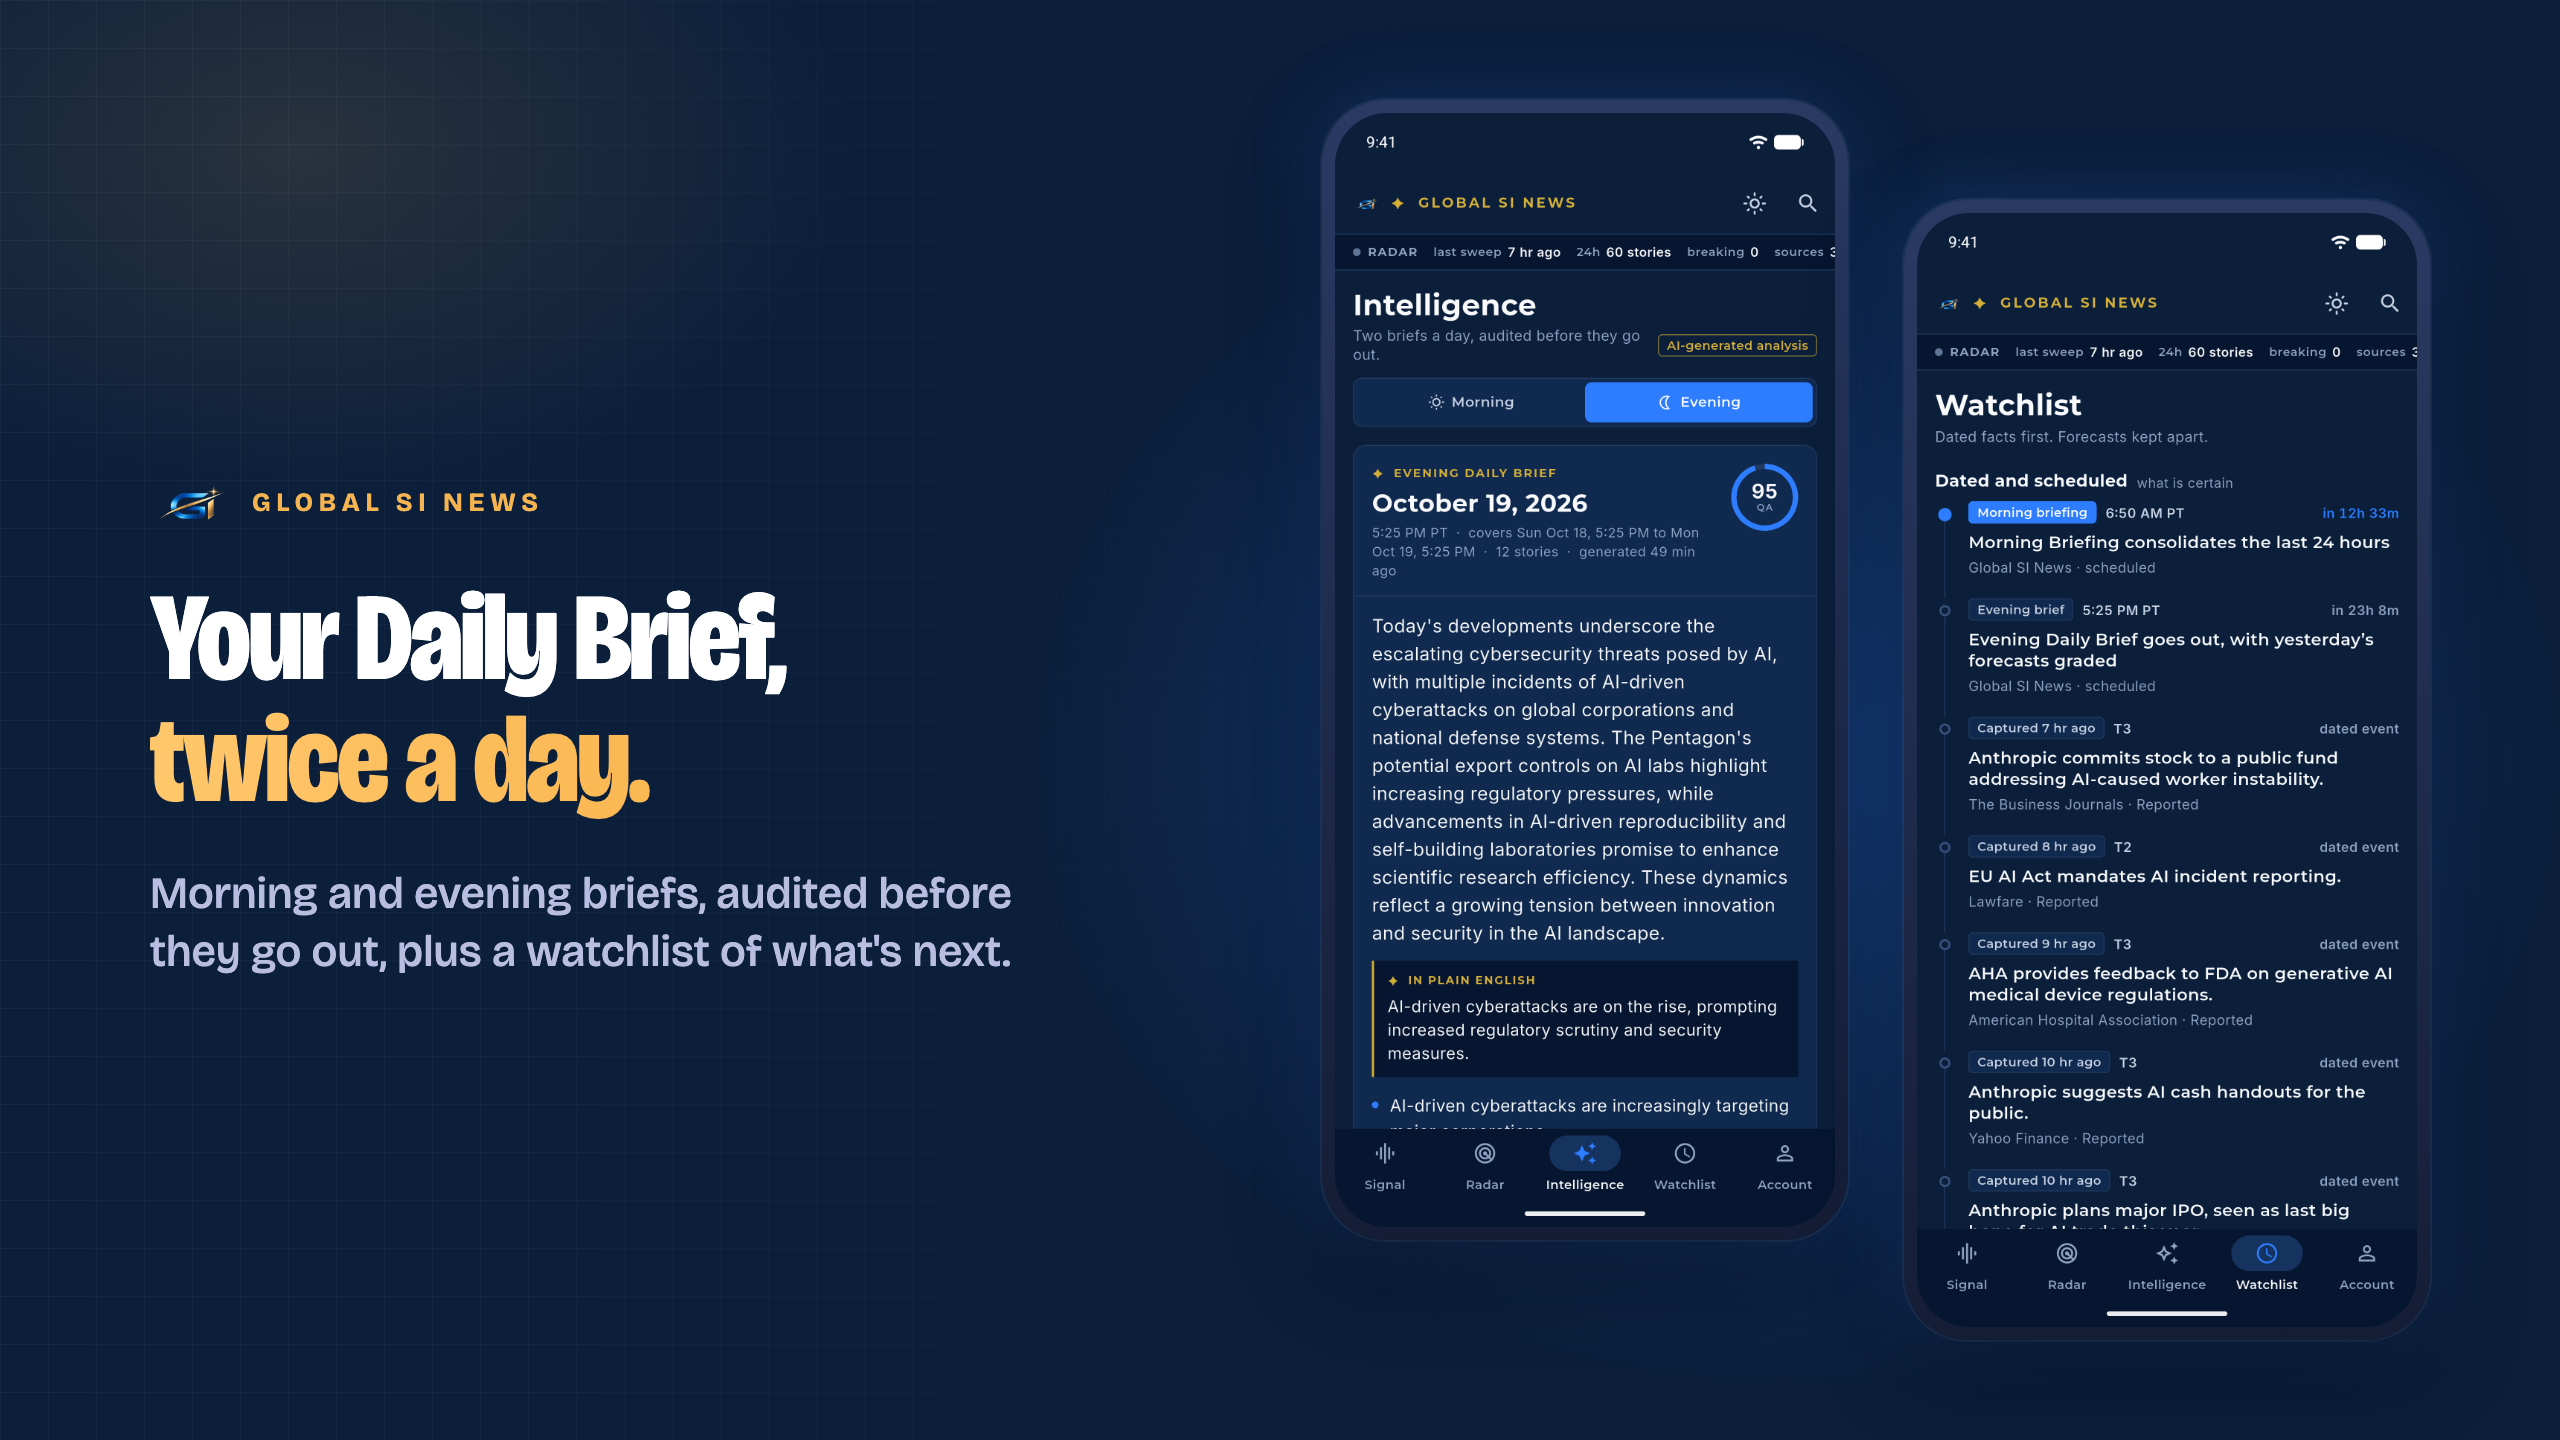
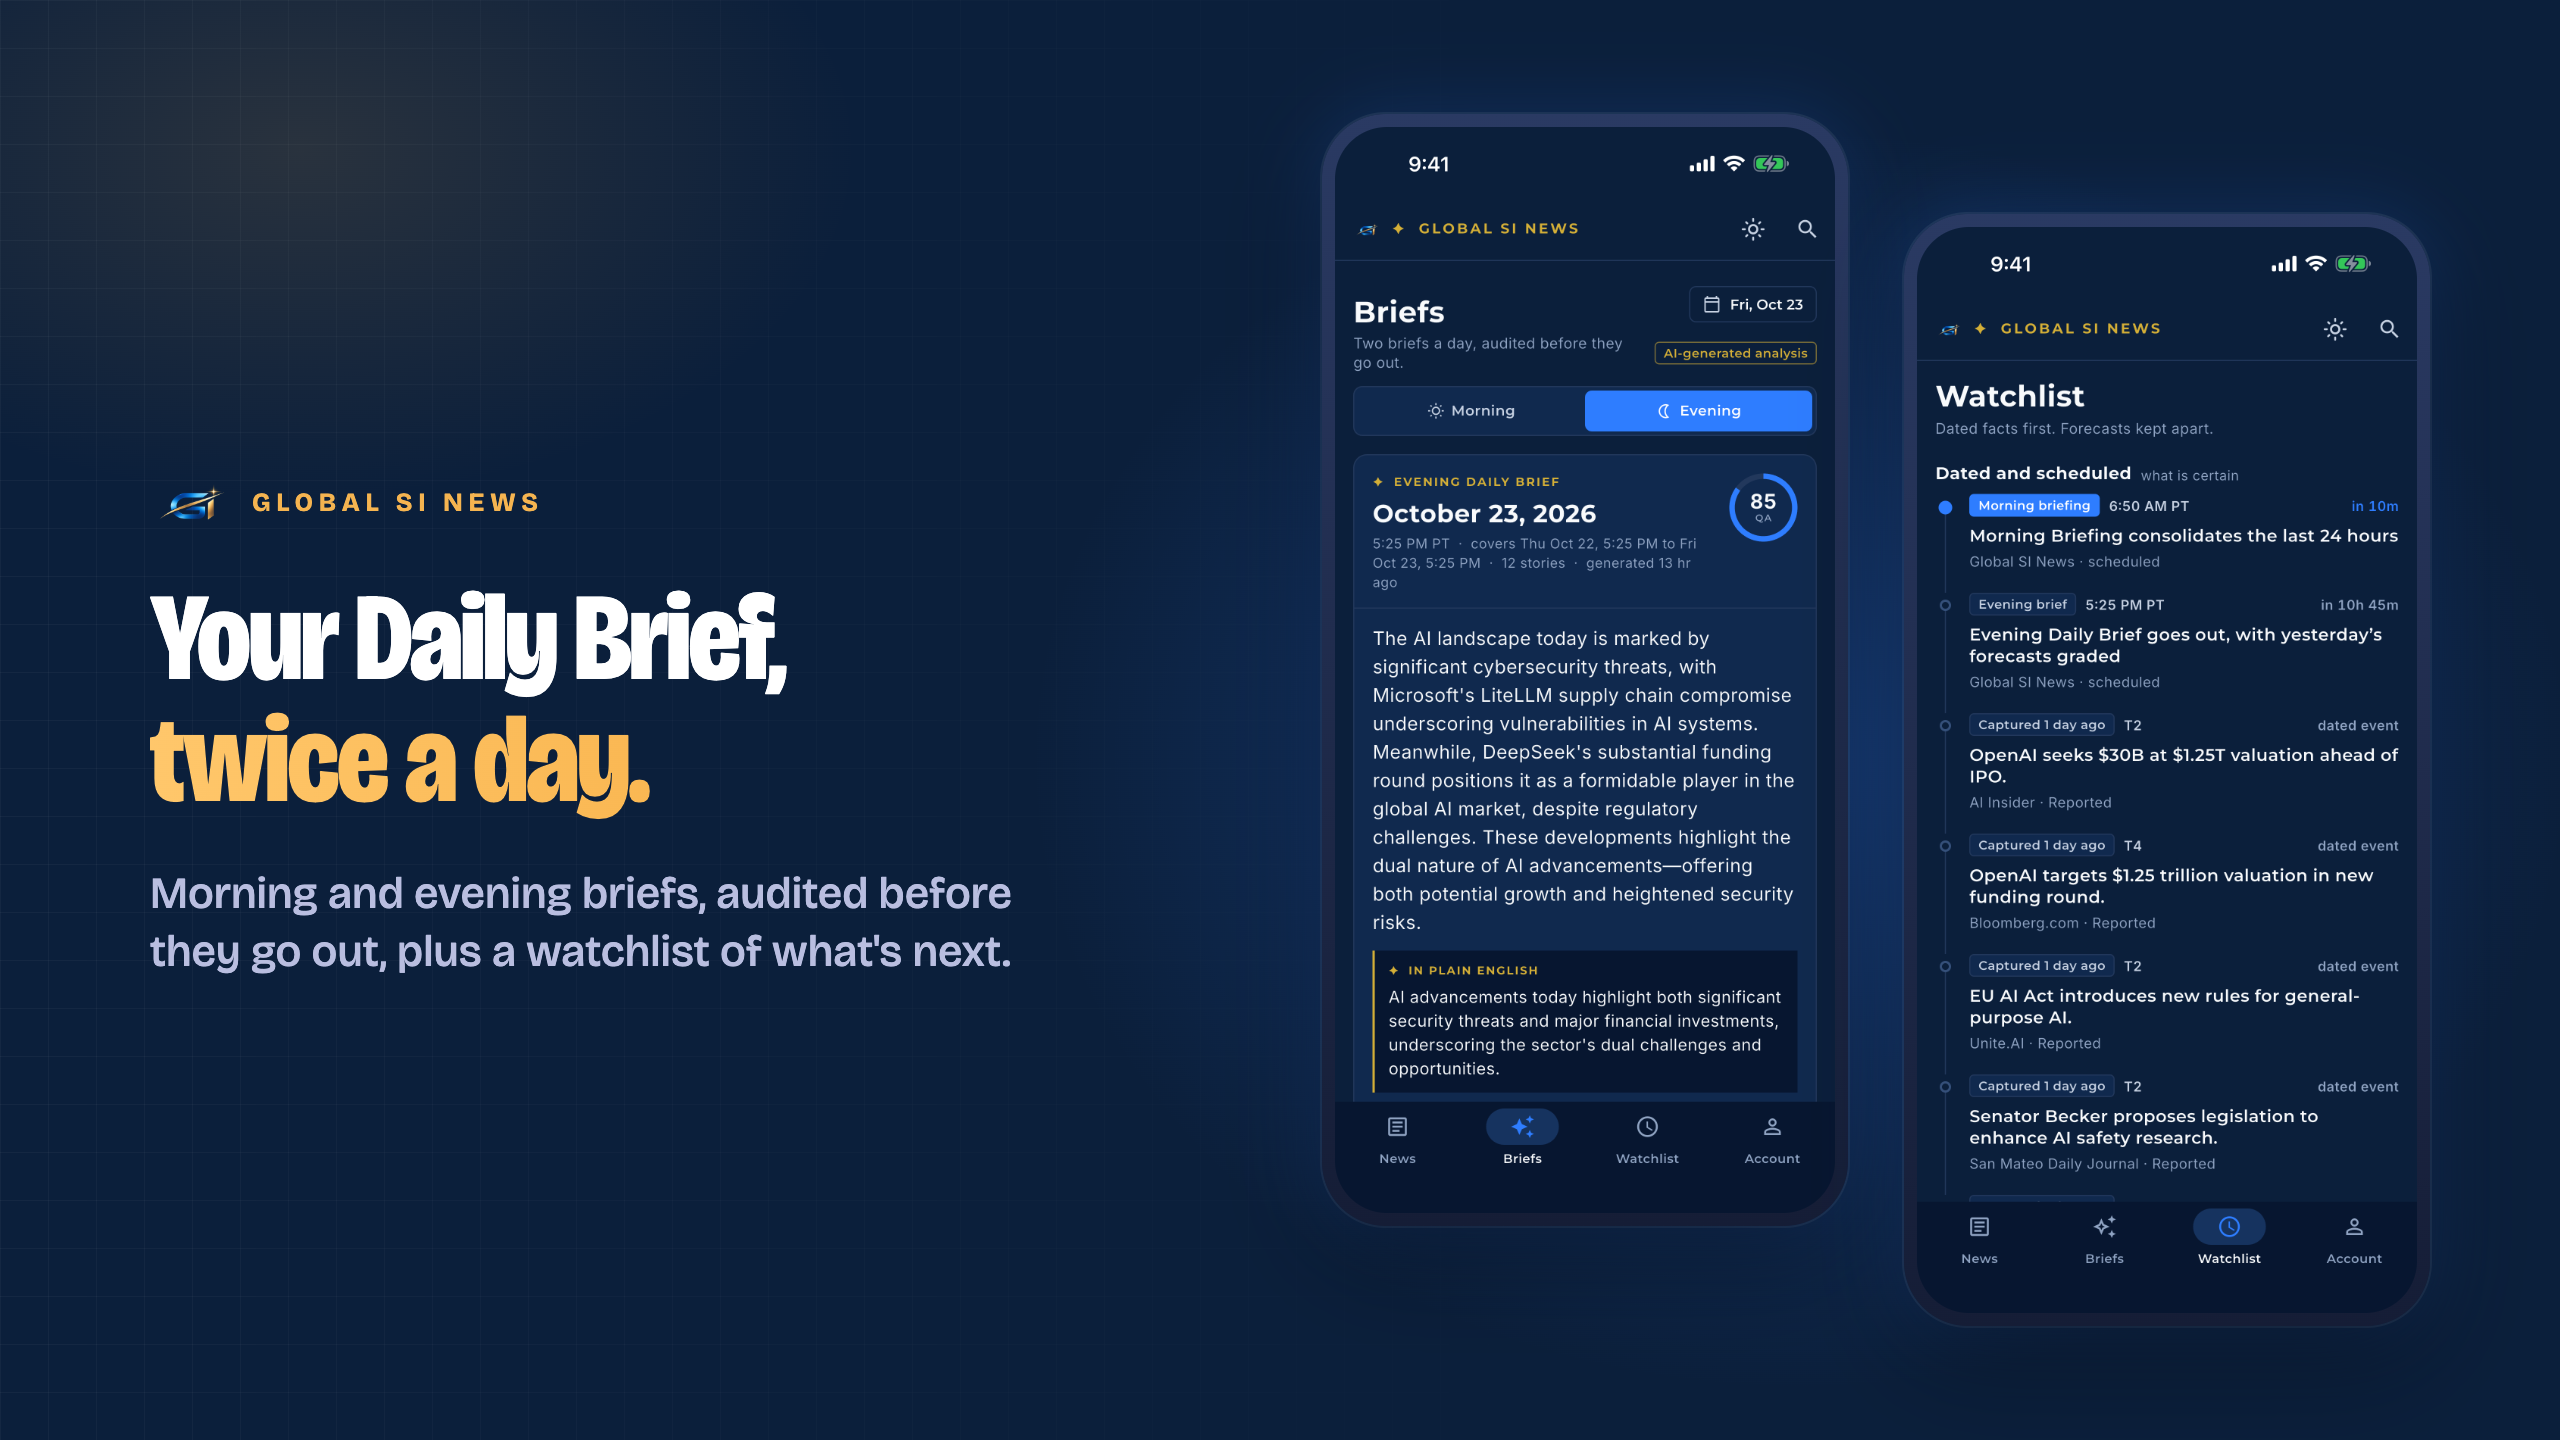
Store screenshots from the 2.0.1 app
App Store iPhone (6.9, 6.5, 6.3, 6.1), Play phone and Play large-screen
sets now show News, Story, Brief, Calendar and Watchlist from 2.0.1,
replacing the Radar-era captures. One script, store/render_screens.py,
renders every set from the raw captures in store/screens/.

diff --git a/mobile/store/render_screens.py b/mobile/store/render_screens.py
@@ -1,0 +1,98 @@
+# Renders the store screenshots from the raw captures in screens/ (iPhone 17
+# Pro Max simulator, 1320x2868, status bar overridden to 9:41):
+#   app-store/iphone-6.9|6.5|6.3|6.1/   App Store iPhone sets
+#   play-screenshots/                   Play phone set (1080x1920)
+#   play-desktop-screenshots/           Play Chromebook/large-screen set (2560x1440)
+# Templates live in each set's src/tpl.html. Needs Google Chrome and Pillow.
+#
+#   python3 mobile/store/render_screens.py
+import os, subprocess, tempfile
+from PIL import Image
+
+D = os.path.dirname(os.path.abspath(__file__))
+SCREENS = os.path.join(D, 'screens')
+CHROME = '/Applications/Google Chrome.app/Contents/MacOS/Google Chrome'
+
+# (file, screen, headline, gold line, subline)
+PHONE = [
+    ('01-news', 'news', 'Every AI story,', 'by topic.', 'Busiest topics first, with the lead story and latest brief up top.'),
+    ('02-story', 'story', 'Why it matters,', 'in plain English.', 'Clear summaries that credit and link the original source.'),
+    ('03-brief', 'brief', 'Your Daily Brief,', 'twice a day.', 'Morning and evening briefs, audited before they go out.'),
+    ('04-calendar', 'calendar', "Any day's brief,", 'one tap away.', 'Pick a date on the calendar to read past briefs.'),
+    ('05-watchlist', 'watch', "Know what's", 'coming next.', 'Dated events and scheduled briefs, facts kept apart from forecasts.'),
+]
+
+# App Store iPhone sizes. 6.9" is rendered natively; the others are scaled
+# from it and centre-cropped to their slightly different aspect ratios.
+IPHONE = {'6.9': (1320, 2868), '6.5': (1284, 2778), '6.3': (1206, 2622), '6.1': (1179, 2556)}
+
+hues = ['2E7DFF', '8FA3C2', '5B9BFF', '7FC4A4', 'C7D2E3', '9FB6FF', '6B8FD6', 'B9C7E0', 'D4AF37', '86B7FF']
+DOTS = '<div class="dots">' + ''.join(f'<i style="background:#{h}"></i>' for h in hues) + '<b>10 desks · always free</b></div>'
+
+# (file, headline, gold line, subline, dots, screens, offsets, phone width, copy width, headline size)
+DESKTOP = [
+    ('01-overview', 'The AI news wire,', 'graded.', 'Every AI story summarized, grouped by topic and briefed twice a day.', DOTS,
+     ['brief', 'news', 'story'], ['lo', 'hi', 'lo'], 420, 800, 104),
+    ('02-story', 'Why it matters,', 'in plain English.', 'Clear summaries that credit and link the original source.', '',
+     ['news', 'story'], ['hi', 'lo'], 500, 1000, 124),
+    ('03-brief', 'Your Daily Brief,', 'twice a day.', "Morning and evening briefs, audited before they go out, plus a watchlist of what's next.", '',
+     ['brief', 'watch'], ['hi', 'lo'], 500, 1000, 124),
+    ('04-calendar', "Any day's brief,", 'one tap away.', 'Pick a date on the calendar to read past briefs. Swept every 30 minutes, primary sources first.', DOTS,
+     ['calendar', 'news'], ['hi', 'lo'], 500, 1000, 124),
+]
+
+
+def url(name):
+    return 'file://' + os.path.join(SCREENS, name + '.png')
+
+
+def shoot(html, w, h, out):
+    with tempfile.NamedTemporaryFile('w', suffix='.html', delete=False) as f:
+        f.write(html)
+    subprocess.run([CHROME, '--headless=new', '--hide-scrollbars', '--force-device-scale-factor=1',
+                    '--allow-file-access-from-files', '--virtual-time-budget=8000',
+                    f'--window-size={w},{h}', '--screenshot=' + out, 'file://' + f.name],
+                   check=True, capture_output=True)
+    os.unlink(f.name)
+    # Both stores reject alpha channels.
+    Image.open(out).convert('RGB').save(out)
+
+
+def fit(src, size, out):
+    im = Image.open(src)
+    w, h = size
+    s = max(w / im.width, h / im.height)
+    im = im.resize((round(im.width * s), round(im.height * s)), Image.LANCZOS)
+    l, t = (im.width - w) // 2, (im.height - h) // 2
+    im.crop((l, t, l + w, t + h)).save(out)
+
+
+def phone_set(tpl_path, out_dir, w, h):
+    tpl = open(tpl_path).read()
+    os.makedirs(out_dir, exist_ok=True)
+    for out, img, a, b, sub in PHONE:
+        html = tpl.replace('{{IMG}}', url(img)).replace('{{A}}', a).replace('{{B}}', b).replace('{{SUB}}', sub)
+        shoot(html, w, h, os.path.join(out_dir, out + '.png'))
+        print(os.path.relpath(out_dir, D), out)
+
+
+app = os.path.join(D, 'app-store')
+phone_set(os.path.join(app, 'iphone-6.9', 'src', 'tpl.html'), os.path.join(app, 'iphone-6.9'), *IPHONE['6.9'])
+for size, wh in IPHONE.items():
+    if size == '6.9':
+        continue
+    os.makedirs(os.path.join(app, 'iphone-' + size), exist_ok=True)
+    for out, *_ in PHONE:
+        fit(os.path.join(app, 'iphone-6.9', out + '.png'), wh, os.path.join(app, 'iphone-' + size, out + '.png'))
+    print('app-store/iphone-' + size, 'scaled')
+
+phone_set(os.path.join(D, 'play-screenshots', 'src', 'tpl.html'), os.path.join(D, 'play-screenshots'), 1080, 1920)
+
+tpl = open(os.path.join(D, 'play-desktop-screenshots', 'src', 'tpl.html')).read()
+for out, a, b, sub, dots, imgs, cls, pw, cw, hs in DESKTOP:
+    phones = ''.join(f'<div class="phone {c}"><img src="{url(i)}"></div>' for i, c in zip(imgs, cls))
+    html = (tpl.replace('{{A}}', a).replace('{{B}}', b).replace('{{SUB}}', sub).replace('{{DOTS}}', dots)
+            .replace('{{PHONES}}', phones).replace('{{PW}}', str(pw)).replace('{{W}}', str(cw)).replace('{{HS}}', str(hs))
+            .replace('src="mark.png"', 'src="file://' + os.path.join(D, 'mark.png') + '"'))
+    shoot(html, 2560, 1440, os.path.join(D, 'play-desktop-screenshots', out + '.png'))
+    print('play-desktop-screenshots', out)

diff --git a/mobile/store/RELEASE-2.0.1.md b/mobile/store/RELEASE-2.0.1.md
@@ -211,11 +211,13 @@ Choose "All or some functionality is restricted", then add the same demo account
 | iPhone 6.9" screenshots (required) | `store/app-store/iphone-6.9/` |
 | iPhone 6.5" / 6.3" / 6.1" screenshots | `store/app-store/iphone-6.5/`, `iphone-6.3/`, `iphone-6.1/` |
 | App preview video | `store/app-store/app-preview/` |
-| Play phone screenshots (2–8) | `store/play-screenshots/01-signal.png` … `05-watchlist.png` |
+| Play phone screenshots (2–8) | `store/play-screenshots/01-news.png` … `05-watchlist.png` |
+| Play large-screen screenshots | `store/play-desktop-screenshots/01-overview.png` … `04-calendar.png` |
 | Play feature graphic 1024×500 | `store/feature-graphic-1024x500.png` |
 | Play app icon 512×512 | Export from `assets/` (the launcher icon source) |
+| App Store header / search results | `store/app-store/header-3840x1646.png`, `search-results-3840x2560.png` |
 
-**Check the screenshots before you upload.** Several were made before 2.0.1. Any that show the Radar tab, the radar strip or the stats and grading panels no longer match the app. Both stores can reject a listing whose screenshots don't match the build, so retake those from 2.0.1.
+All screenshots were captured from the 2.0.1 build on October 24, 2026. They are in the same order in every set: News, Story, Brief, Calendar, Watchlist. To regenerate them after a UI change, replace the captures in `store/screens/` and run `python3 mobile/store/render_screens.py`.
 
 ---
 
@@ -224,7 +226,7 @@ Choose "All or some functionality is restricted", then add the same demo account
 **iOS**
 - [ ] `flutter build ipa --release`, then upload with Transporter or Xcode Organizer
 - [ ] App Store Connect: + Version → **2.0.1**, attach build **2**
-- [ ] Paste What's New, update promotional text and screenshots if needed
+- [ ] Paste What's New, update promotional text, and replace screenshots with the 2.0.1 set
 - [ ] Confirm the demo account still signs in
 - [ ] Submit for review; release manually or automatically after approval
 
